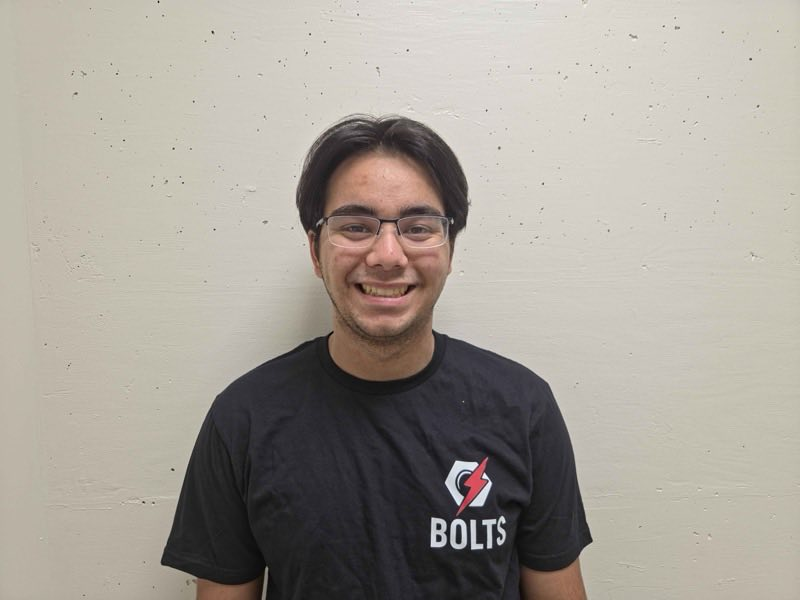
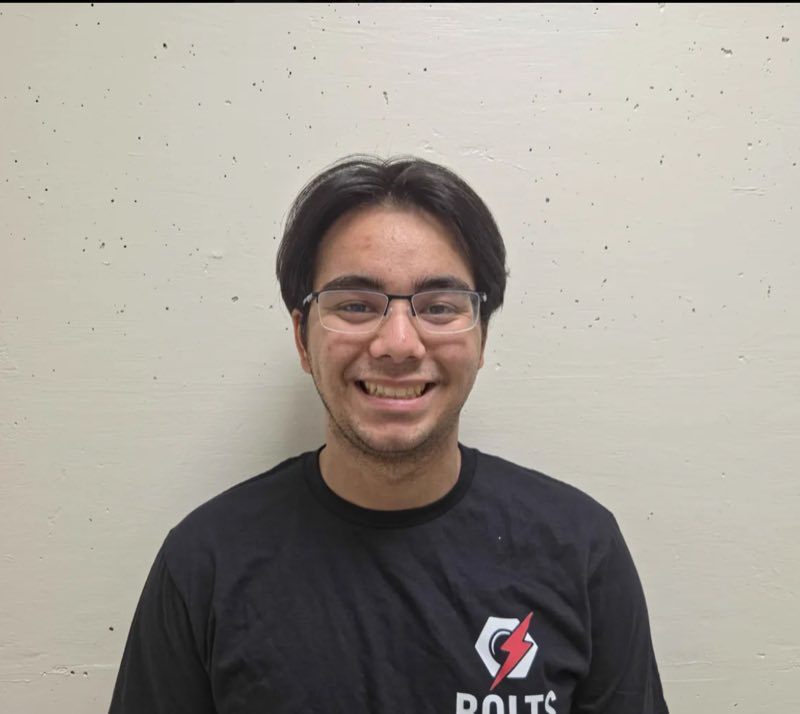
Trim roster section, add Team 2 builders, and fix gallery crops.
Removes Also on the roster, adds Jackson and Paul, updates Matt, scales only Alexus, drops the gallery tagline, and fits gallery images to their tiles.

diff --git a/src/components/Roster.jsx b/src/components/Roster.jsx
@@ -65,7 +65,11 @@ function FlipCard({ member }) {
                 alt=""
                 width={400}
                 height={400}
-                className="h-full w-full object-cover object-[center_20%]"
+                className={
+                  member.name === "Alexus"
+                    ? "h-full w-full origin-bottom scale-75 object-contain object-bottom"
+                    : "h-full w-full object-cover object-[center_20%]"
+                }
               />
             ) : (
               <div className="flex h-full items-center justify-center bg-ink">
@@ -128,7 +132,11 @@ function ExecCard({ person }) {
             alt={`${person.name}, ${person.execTitle}`}
             width={400}
             height={400}
-            className="h-full w-full object-cover object-[center_20%]"
+            className={
+              person.name === "Alexus"
+                ? "h-full w-full origin-bottom scale-75 object-contain object-bottom"
+                : "h-full w-full object-cover object-[center_20%]"
+            }
           />
         ) : (
           <div className="flex h-full items-center justify-center bg-ink">
@@ -191,8 +199,6 @@ export default function Roster() {
   const execs = members.filter((m) => m.execTitle);
   const team1 = members.filter((m) => m.team === 1);
   const team2 = members.filter((m) => m.team === 2);
-  // Anyone without a build team (includes exec-only). Photos may also appear above.
-  const unassigned = members.filter((m) => m.team == null);
 
   return (
     <section
@@ -233,26 +239,6 @@ export default function Roster() {
             <TeamBlock teamNumber={1} members={team1} />
             <TeamBlock teamNumber={2} members={team2} />
           </div>
-
-          {unassigned.length > 0 ? (
-            <div className="mt-14 flex flex-col gap-5">
-              <div className="flex flex-col gap-2">
-                <div className="mono-label text-[13px] text-muted-paper">
-                  Also on the roster
-                </div>
-                <p className="m-0 max-w-xl text-sm text-muted-paper">
-                  Builders without a team assignment yet, plus exec members who
-                  are not on Team 1 or Team 2. Photos may repeat from the exec
-                  board above.
-                </p>
-              </div>
-              <div className="grid grid-cols-2 gap-4 sm:grid-cols-3 md:grid-cols-4 md:gap-5">
-                {unassigned.map((member) => (
-                  <FlipCard key={`unassigned-${member.name}`} member={member} />
-                ))}
-              </div>
-            </div>
-          ) : null}
         </>
       ) : (
         <div className="grid grid-cols-2 gap-4 sm:grid-cols-3 md:grid-cols-4 md:gap-5">

diff --git a/src/components/GallerySection.jsx b/src/components/GallerySection.jsx
@@ -12,7 +12,13 @@ function GalleryTile({ photo, large = false, inkShadow = true }) {
       } ${inkShadow ? "shadow-[6px_6px_0_var(--ink)]" : "shadow-[5px_5px_0_var(--red)]"}`}
     >
       <div className="duotone absolute inset-0">
-        <img src={photo.src} alt={photo.alt} width={640} height={420} />
+        <img
+          src={photo.src}
+          alt={photo.alt}
+          width={640}
+          height={420}
+          className="h-full w-full object-cover object-center"
+        />
       </div>
       <figcaption className="absolute bottom-2 left-2 z-[1] md:bottom-3 md:left-3">
         <span className="inline-block border-2 border-ink bg-paper px-2 py-1 font-mono text-[10px] uppercase tracking-[0.08em] text-ink md:text-[11px]">
@@ -39,7 +45,6 @@ export default function GallerySection() {
           </h2>
         </div>
         <p className="m-0 max-w-[380px] text-base leading-relaxed md:text-lg">
-          Captioned like a build log, newest first.{" "}
           <Link to="/gallery" className="font-semibold text-red-text underline">
             See all photos
           </Link>

diff --git a/src/components/GalleryPage.jsx b/src/components/GalleryPage.jsx
@@ -25,7 +25,13 @@ export default function GalleryPage() {
               className="relative m-0 min-h-[160px] overflow-hidden border-[3px] border-ink shadow-[6px_6px_0_var(--ink)] sm:min-h-[180px]"
             >
               <div className="duotone absolute inset-0">
-                <img src={photo.src} alt={photo.alt} width={640} height={420} />
+                <img
+                  src={photo.src}
+                  alt={photo.alt}
+                  width={640}
+                  height={420}
+                  className="h-full w-full object-cover object-center"
+                />
               </div>
               <figcaption className="absolute bottom-2 left-2 z-[1]">
                 <span className="inline-block border-2 border-ink bg-paper px-2 py-1 font-mono text-[10px] uppercase tracking-[0.08em]">

diff --git a/src/data/photos.js b/src/data/photos.js
@@ -28,6 +28,8 @@ import robin12 from "../assets/team/Robin12.jpg";
 import robin13 from "../assets/team/Robin13.jpg";
 import zachary from "../assets/team/Zachary.jpg";
 import john from "../assets/team/John.jpg";
+import jackson from "../assets/team/Jackson.jpg";
+import paul from "../assets/team/Paul.jpg";
 
 import photo20260130_103231 from "../assets/gallery/20260130_103231.jpg";
 import photo20260130_103635 from "../assets/gallery/20260130_103635.jpg";
@@ -73,6 +75,8 @@ export const teamPhotos = {
   "Robin13.jpg": robin13,
   "Zachary.jpg": zachary,
   "John.jpg": john,
+  "Jackson.jpg": jackson,
+  "Paul.jpg": paul,
 };
 
 export const galleryPhotos = [
